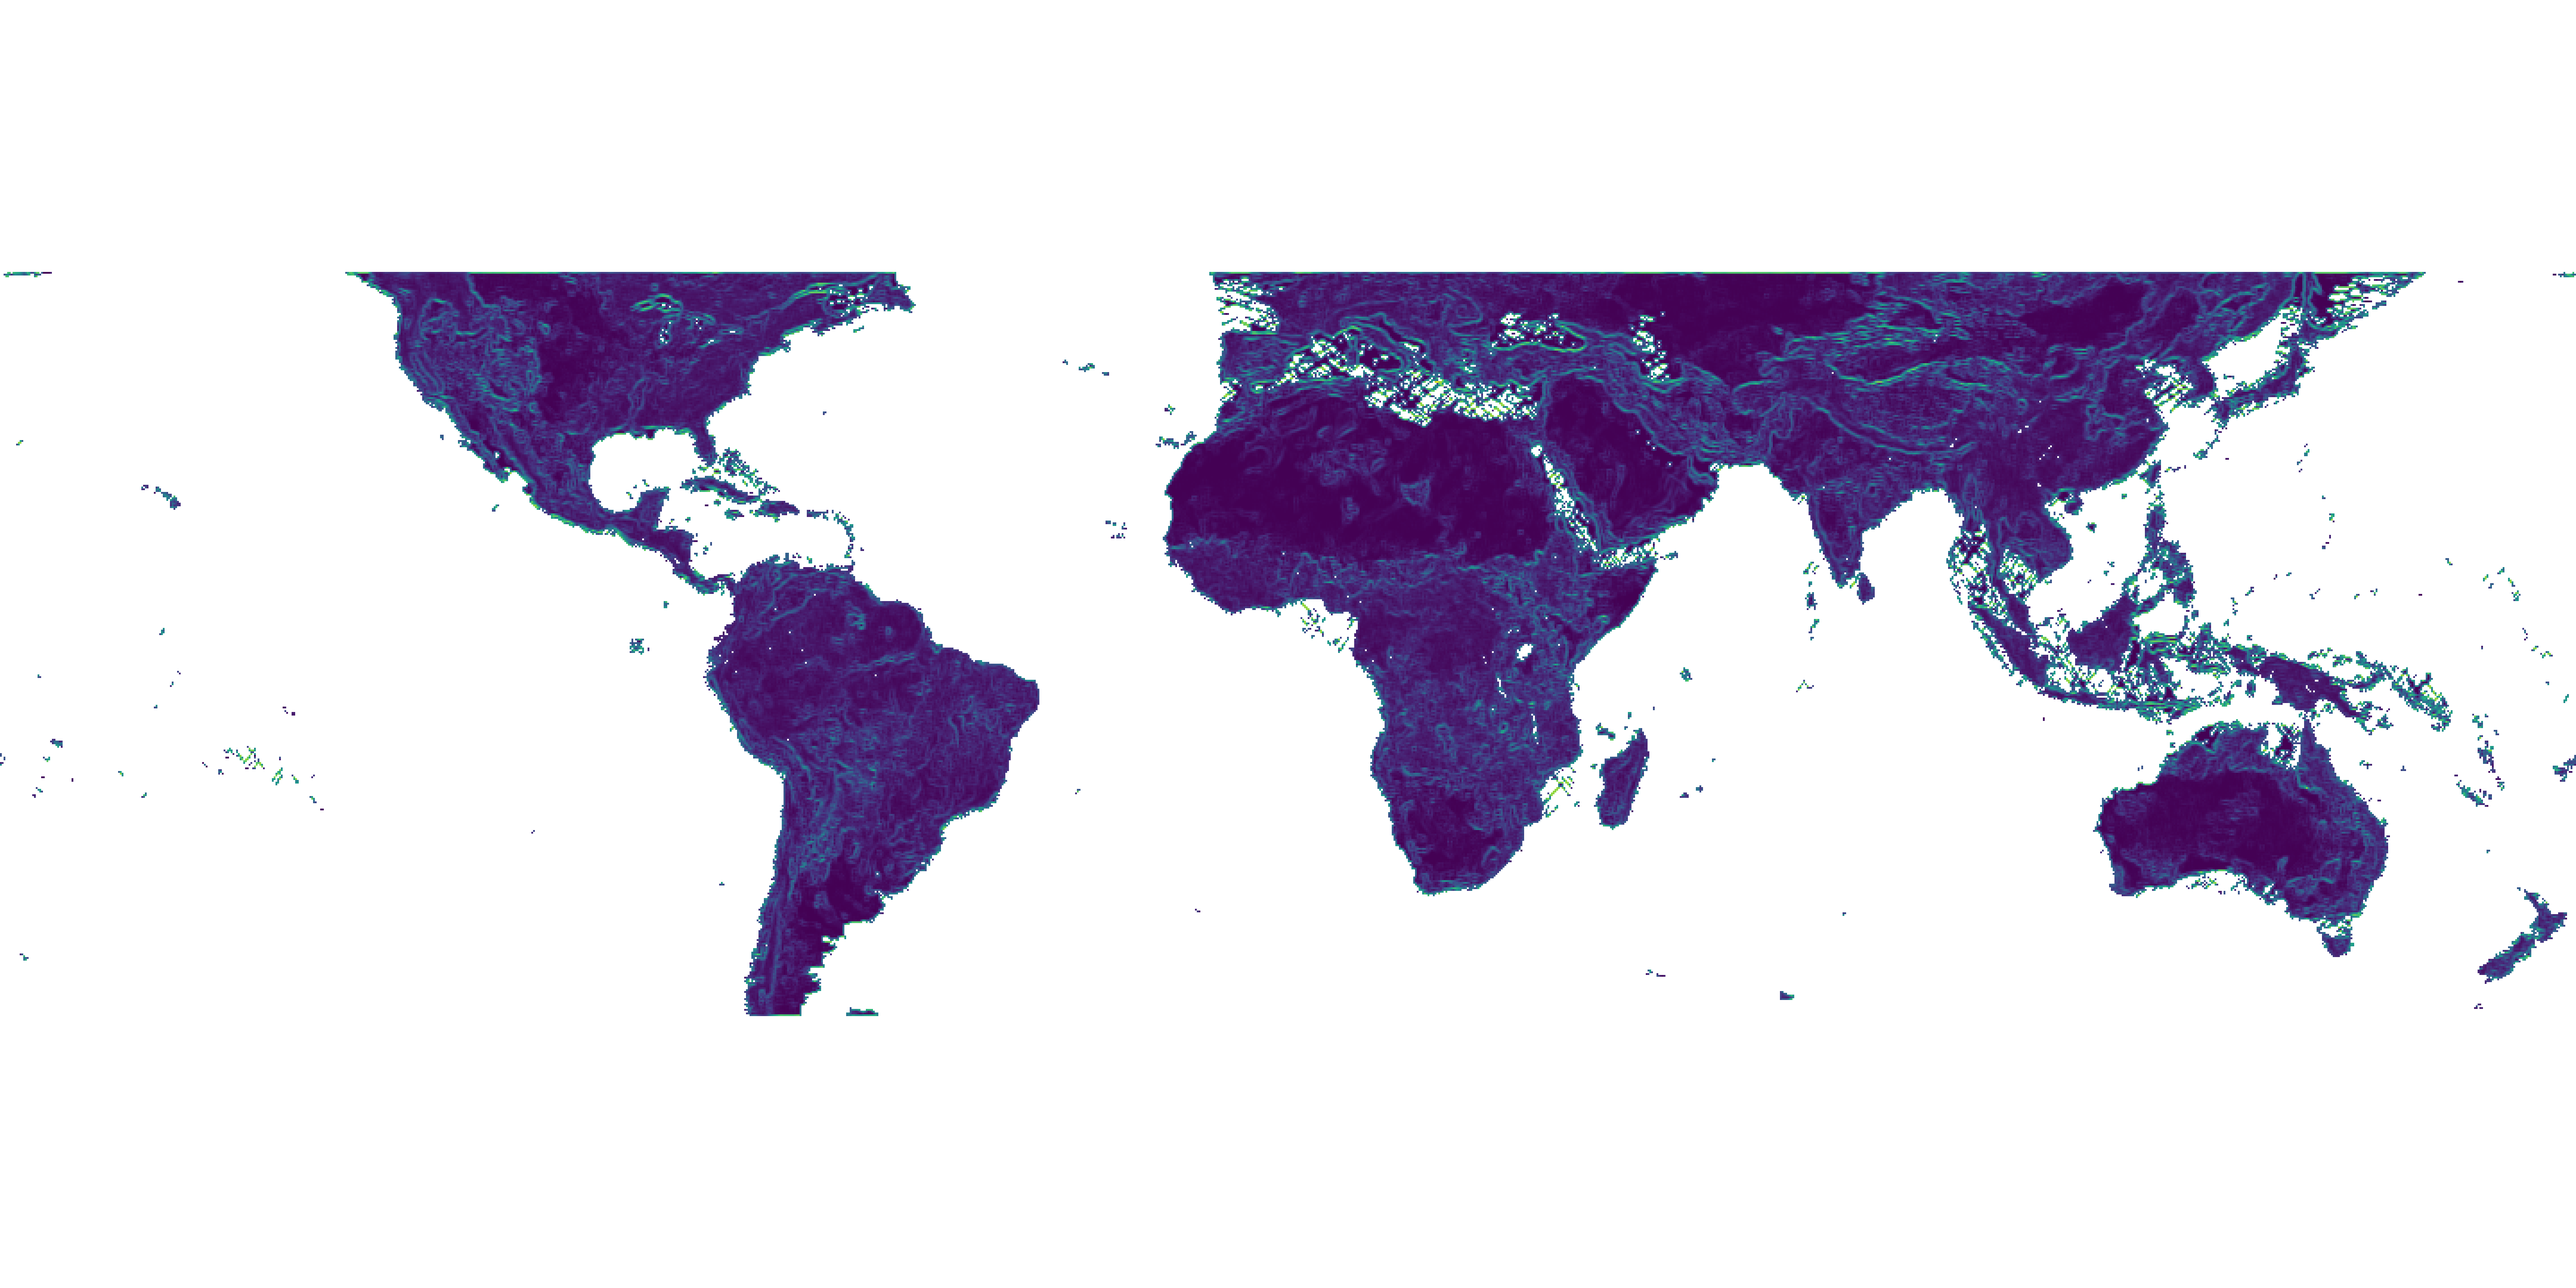
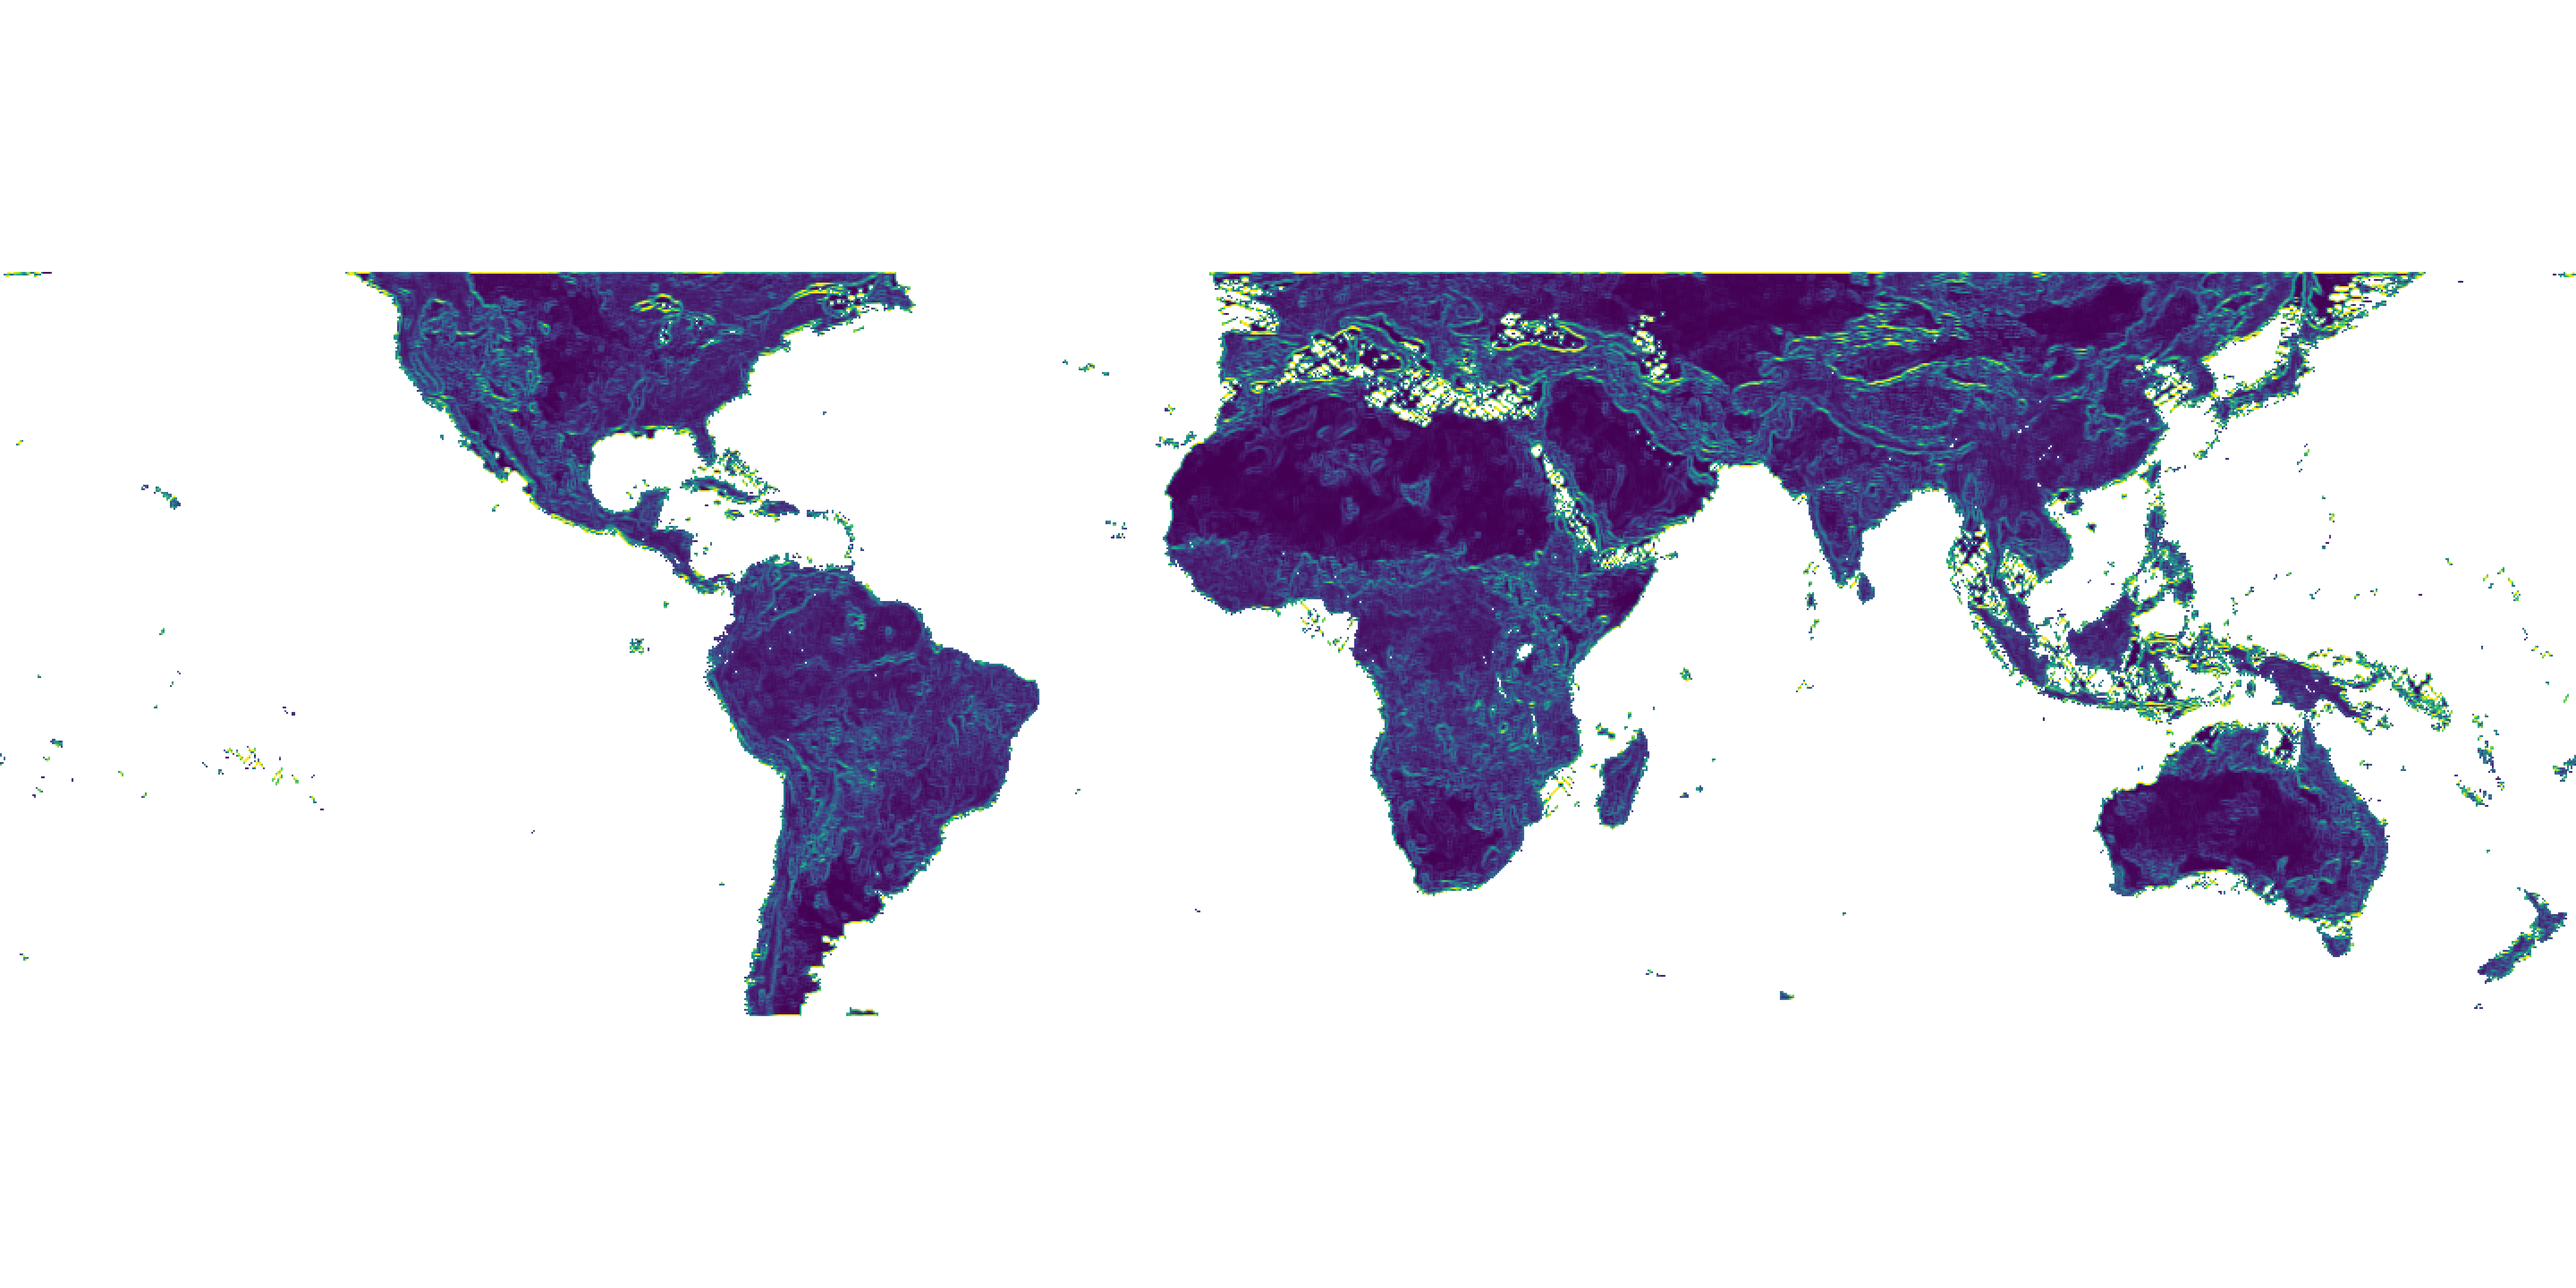
add overlay function

diff --git a/templates/eco_maps.html b/templates/eco_maps.html
@@ -20,11 +20,18 @@
       opacity: 0.5;
    }
    
-   #measure {
+   #measure1 {
       pointer-events:none;
       z-index: 20;
       opacity: 1;
    }
+
+   #measure2 {
+      pointer-events:none;
+      z-index: 30;
+      opacity: 1;
+   }
+
 
 
    #imageSelect {
@@ -36,7 +43,7 @@
       max-height: 80px;
 
       padding: 10px;
-      border: 1px solid rgb(0, 255, 225)f8c;
+      border: 1px solid rgb(0, 255, 225);
       border-radius: 5px;
       background-color: #08ff8c;
       font-size: 16px;
@@ -46,9 +53,35 @@
    }
 
    #imageSelect:focus {
-     outline: none;
-     border-color: #007bff;
-     box-shadow: 0 0 5px rgba(0, 123, 255, 0.5);
+      outline: none;
+      border-color: #007bff;
+      box-shadow: 0 0 5px rgba(0, 123, 255, 0.5);
+   }
+
+   #imageSelect {
+      margin: 0;
+      bottom:5%;
+      place-content:center;
+      overflow: auto;
+      width: 352px;
+      max-height: 80px;
+
+      padding: 10px;
+      border: 1px solid rgb(0, 255, 225);
+      border-radius: 10px;
+      background-color: #08ff8c;
+      font-size: 16px;
+      cursor: pointer;
+
+      /*background-color: white;*/
+   }
+
+   button {
+      bottom:5%;
+   }
+
+   #toggleMeasure {
+      background-color : #007bff;
    }
 
 </style>
@@ -56,28 +89,65 @@
 <body>
    <svg id="svg" preserveAspectRatio="none">
       <image id="world_map" href="static/data/world.png" preserveAspectRatio="none"></image>
-      <image id="measure" ></image>
+      <image id="measure1" href="static/data/ThreeY_entropy_rh.png" ></image>
+      <image id="measure2" href="static/data/ThreeY_rh98_mean.png" ></image>
    </svg>
 
-   <label for="imageSelect">Choose the measure to overlay:</label>
-   <select id="imageSelect" onchange="changeImage()">
-      <option value="static/data/ThreeY_entropy_rh.png">ThreeY_entropy_rh</option>
-      <option value="static/data/ThreeY_rh98_mean.png">ThreeY_rh98_mean</option>
-      <option value="static/data/ThreeY_rh98_std.png">ThreeY_rh98_std</option>
-      <option value="static/data/ThreeY_gradient.png">ThreeY_gradient</option>
-      <option value="static/data/ThreeY_gradient_256.png">ThreeY_gradient_256</option>
-      <option value="static/data/ThreeY_avg_code_dis.png">ThreeY_avg_code_dis</option>
-      <option value="static/data/ThreeY_avg_code_dis_256.png">ThreeY_avg_code_dis_256</option>
-      <option value="static/data/ThreeY_sample_count.png">ThreeY_sample_count</option>
-   </select>
+   <div>
+      <label for="imageSelect">Choose image:</label>
+      <select id="imageSelect">
+         <option value="static/data/ThreeY_entropy_rh.png">ThreeY_entropy_rh</option>
+         <option value="static/data/ThreeY_rh98_mean.png">ThreeY_rh98_mean</option>
+         <option value="static/data/ThreeY_rh98_std.png">ThreeY_rh98_std</option>
+         <option value="static/data/ThreeY_gradient.png">ThreeY_gradient</option>
+         <option value="static/data/ThreeY_gradient_256.png">ThreeY_gradient_256</option>
+         <option value="static/data/ThreeY_avg_code_dis.png">ThreeY_avg_code_dis</option>
+         <option value="static/data/ThreeY_avg_code_dis_256.png">ThreeY_avg_code_dis_256</option>
+         <option value="static/data/ThreeY_sample_count.png">ThreeY_sample_count</option>
+         <option value="static/data/world.png">ThreeY_sample_count</option>
+      </select>
+
+      <button onclick="changeBase()">Change Base Measure</button>
+      <button onclick="changeOverlay()">Change Overlay Measure</button>
+      <button id="toggleMeasure" class="toggle-button" onclick="toggleMeasure()">Overlay: ON</button>
+   </div>
 
 <script>
-   function changeImage() {
-      const image2 = document.getElementById('measure');
-      const selectedImage = document.getElementById('imageSelect').value;
+   function changeBase() {
+      image = document.getElementById('measure1');
+      selectedImage = document.getElementById('imageSelect').value;
+      image.setAttribute('href', selectedImage);
+      updateImage();
+   }
+
+   function changeOverlay() {
+      image2 = document.getElementById('measure2');
+      selectedImage = document.getElementById('imageSelect').value;
       image2.setAttribute('href', selectedImage);
       updateImage();
    }
+
+   function toggleMeasure() {
+      button = document.getElementById('toggleMeasure');
+      image2 = document.getElementById('measure2');
+
+      if (button.classList.contains('off')) {
+        button.classList.remove('off');
+        button.textContent = 'Overlay: ON';
+        button.style.backgroundColor = '#007bff'; // Blue color
+        //image2.setAttribute('visible', 1);
+        image2.style.visibility = 'visible';
+      } else {
+        button.classList.add('off');
+        button.textContent = 'Overlay: OFF';
+        button.style.backgroundColor = '#dc3545'; // Red color
+        //image2.setAttribute('opacity', 0);
+        image2.style.visibility = 'hidden';
+      }
+
+      updateImage();
+   }
+
 
    let imgsrc = "static/data/ThreeY_entropy_rh.png";
    let imgRawWidth = 1600; // hardcode
@@ -101,10 +171,15 @@
    background.setAttribute('width', imgRawWidth);
    background.setAttribute('height', imgRawHeight);
 
-   const measure_img = document.getElementById("measure");
+   const measure_img = document.getElementById("measure1");
    measure_img.setAttribute('width', imgRawWidth);
    measure_img.setAttribute('height', imgRawHeight);
-   measure_img.setAttribute('href', imgsrc);
+
+   const measure_img2 = document.getElementById("measure2");
+   measure_img2.setAttribute('width', imgRawWidth);
+   measure_img2.setAttribute('height', imgRawHeight);
+
+
    svg.setAttribute('viewBox', `0 0 ${viewBoxWidth} ${viewBoxHeight}`);
    updateViewCenter(0,0);
    updateImage();
@@ -173,6 +248,12 @@
          )scale(${zoom})
       ` ;
 
+      measure_img2.style.transformOrigin = `${viewCenterX}px ${viewCenterY}px`;
+      measure_img2.style.transform = `
+         translate(${-viewCenterX+viewBoxWidth/2}px,
+         ${-viewCenterY+viewBoxHeight/2}px
+         )scale(${zoom})
+      ` ;
    }
    
    // helpers 
